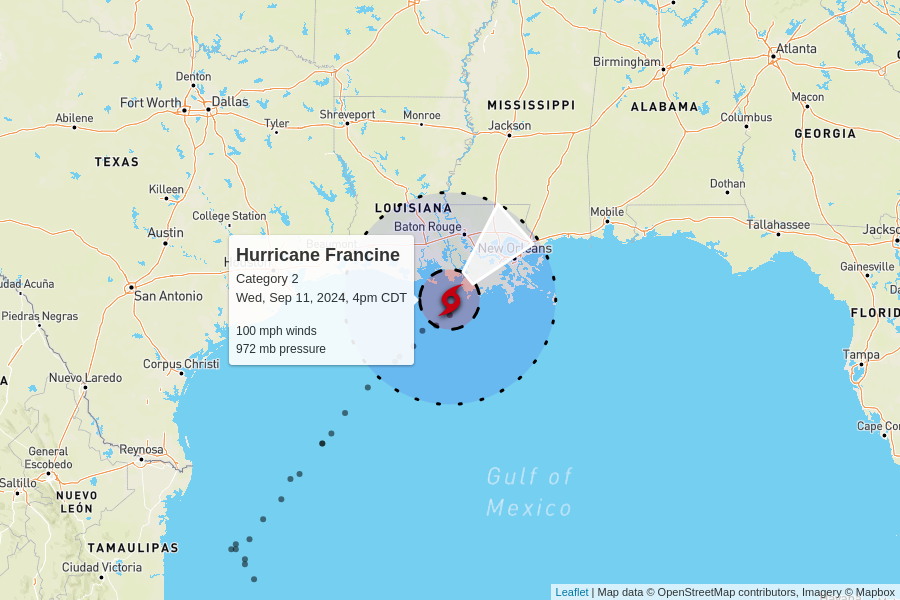
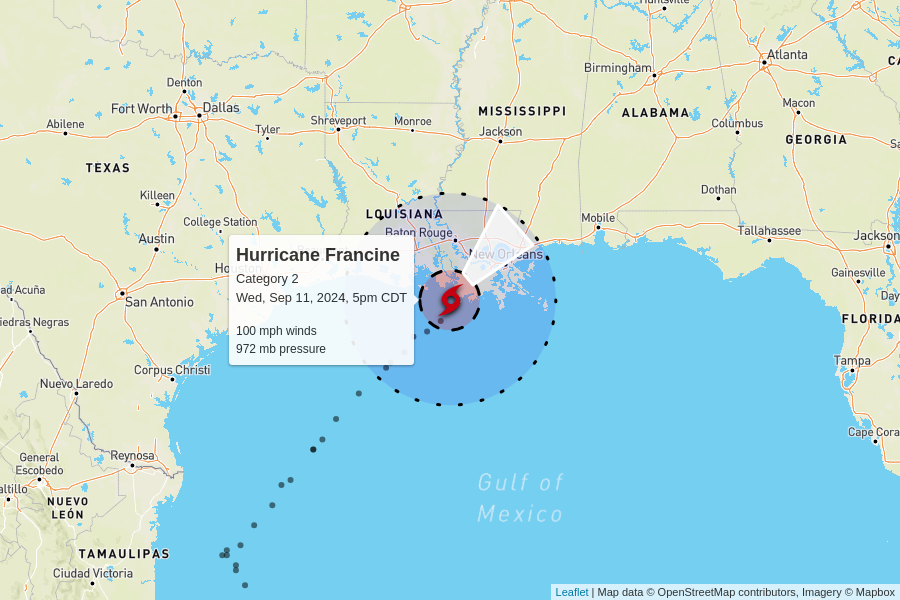
automatic update

diff --git a/docs/index.html b/docs/index.html
@@ -104,7 +104,7 @@
         <td colspan="6" class="storm category-2" >
           <h2>
             Hurricane Francine - Category 2
-            <p class="updated">last updated <span data-time>2024-09-11T21:00:00.000Z</span></p>
+            <p class="updated">last updated <span data-time>2024-09-11T22:00:00.000Z</span></p>
           </h2>
         </td>
       </tr>
@@ -119,8 +119,8 @@
       </tr>
       <tr>
         <td class="spacer"></td>
-        <td>100 mph<br>+10 mph since last update</td>
-        <td>972 mb<br>-3 mb since last update</td>
+        <td>100 mph<br>0 mph since last update</td>
+        <td>972 mb<br>0 mb since last update</td>
         <td>
           17 mph to the northeast
           <br/>
